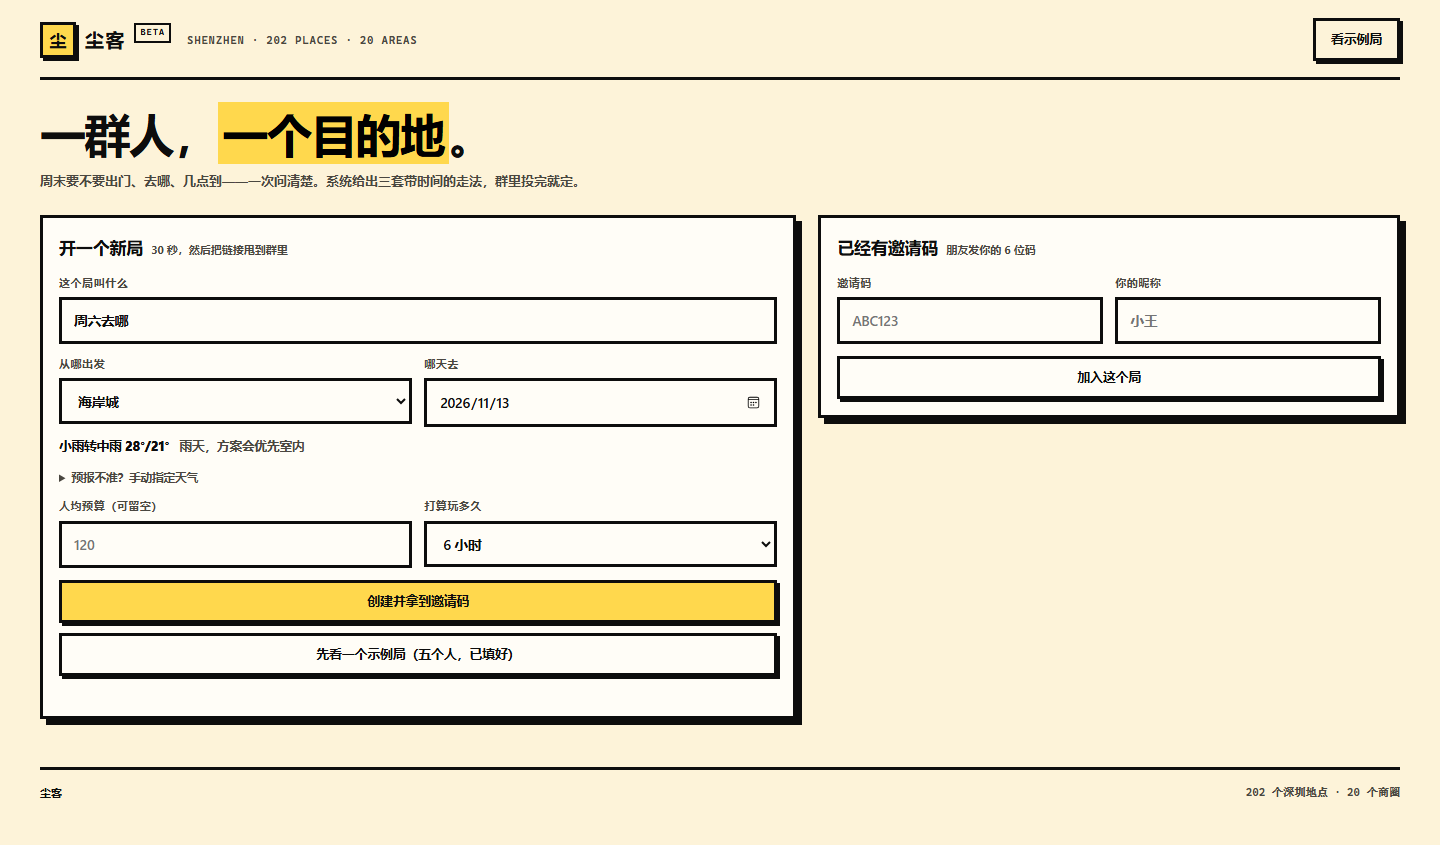
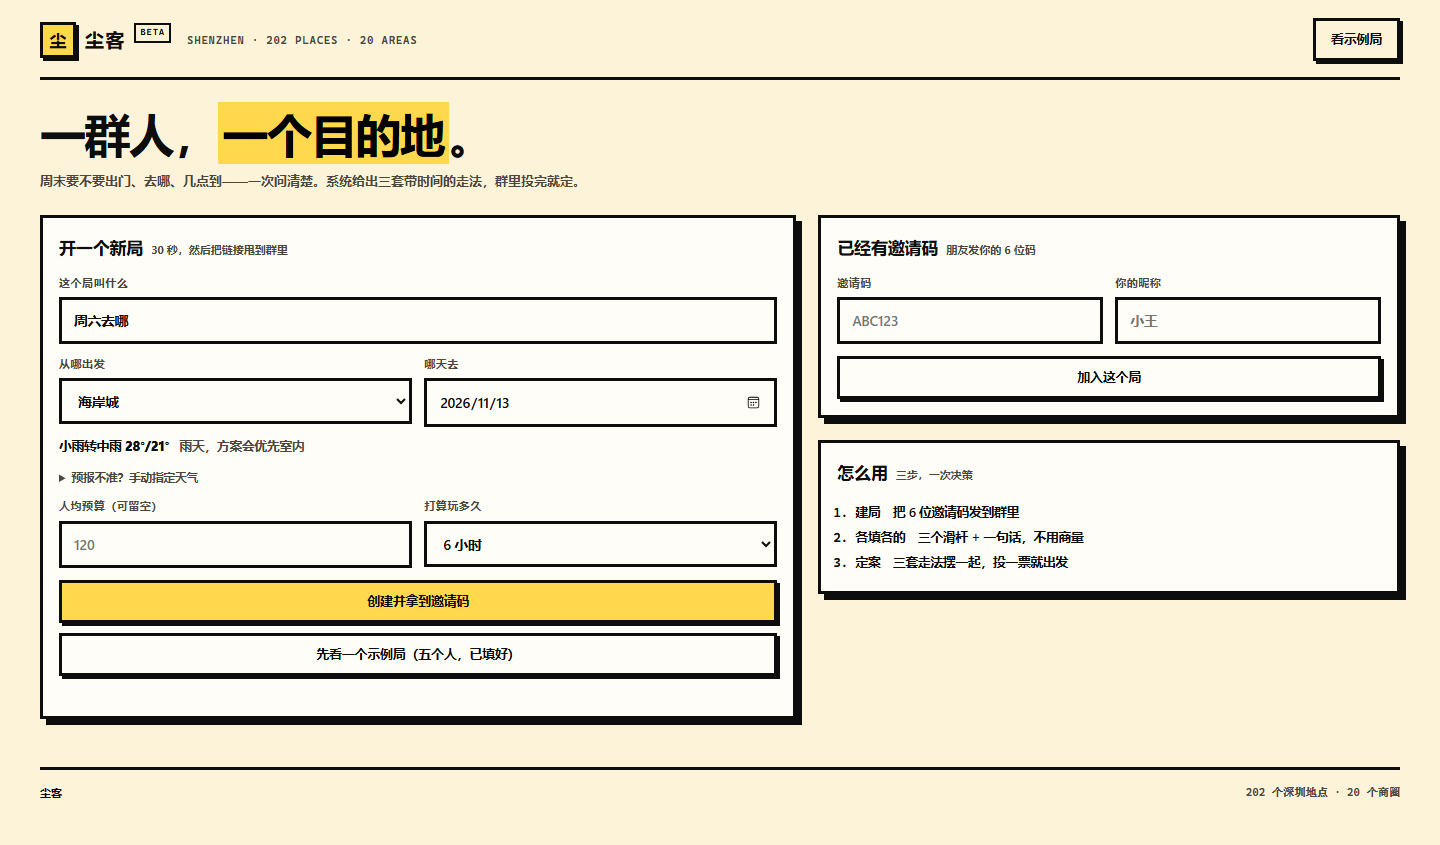
feat(web): 首页右侧补一张「怎么用」三步卡，右侧不再空一大块

Changed region(s): [[0.5625, 0.5231, 1.0, 0.7077]]

diff --git a/web/index.html b/web/index.html
@@ -94,6 +94,10 @@
   .home-hero h1 mark { background: var(--yellow); padding: 0 .1em; }
   .home-hero p { margin: 14px 0 0; font-size: 13px; font-weight: 600; color: var(--muted); max-width: 560px; }
   .home { display: grid; grid-template-columns: 1.3fr 1fr; gap: 22px; align-items: start; }
+  .steps-card { background: var(--card); }
+  .steps-list { margin: 6px 0 0; padding-left: 18px; font-size: 12.5px; font-weight: 600; line-height: 2; }
+  .steps-list b { font-weight: 900; }
+  .steps-list li::marker { font-family: "Cascadia Mono", ui-monospace, monospace; font-weight: 800; }
   .home .stack > .card:last-child { margin-bottom: 0; }
 
   /* ── 局内 ─────────────────────────────────────── */
@@ -499,6 +503,15 @@ async function renderHome() {
               <input id="j-nick" type="text" placeholder="小王" /></label>
           </div>
           <button class="full" id="btn-join">加入这个局</button>
+        </div>
+
+        <div class="card steps-card">
+          <h2>怎么用<span class="hint">三步，一次决策</span></h2>
+          <ol class="steps-list">
+            <li><b>建局</b>　把 6 位邀请码发到群里</li>
+            <li><b>各填各的</b>　三个滑杆 + 一句话，不用商量</li>
+            <li><b>定案</b>　三套走法摆一起，投一票就出发</li>
+          </ol>
         </div>
       </div>
     </div>`;
